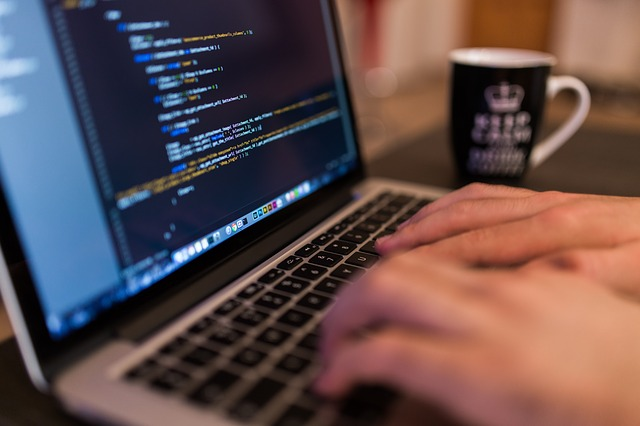
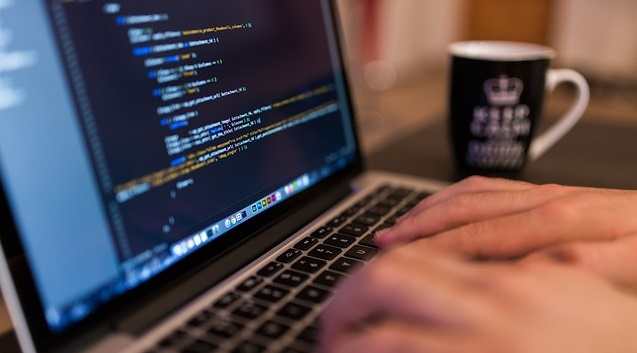
Fixing the og image and description

diff --git a/index.html b/index.html
@@ -5,9 +5,12 @@
   <meta charset="utf-8">
   <meta name="viewport" content="width=device-width, initial-scale=1, shrink-to-fit=no">
   <title> Christiam De la Cruz Astorayme</title>
-  <meta name="description" content="Portafolio virtual e información de contacto">
+  <meta name="description" content="Hola, soy Christiam, acá podrás conocer más sobre mi información profesional, académica y podrás ponerte en contacto conmigo">
   <meta name="author" content="Christiam De la Cruz">
-  <meta property="og:image" content="https://christiamd.github.io/about/images/covers/programming">
+  <meta property="og:image" content="https://christiamd.github.io/about/images/covers/programming.jpg">
+  <meta property="og:image:width" content="637">
+  <meta property="og:image:height" content="353">
+
   <link rel="icon" href="images/icons/coding.ico">
   <link rel="stylesheet" href="css/bootstrap.min.css">
   <link rel="stylesheet" href="css/unicons.css">
